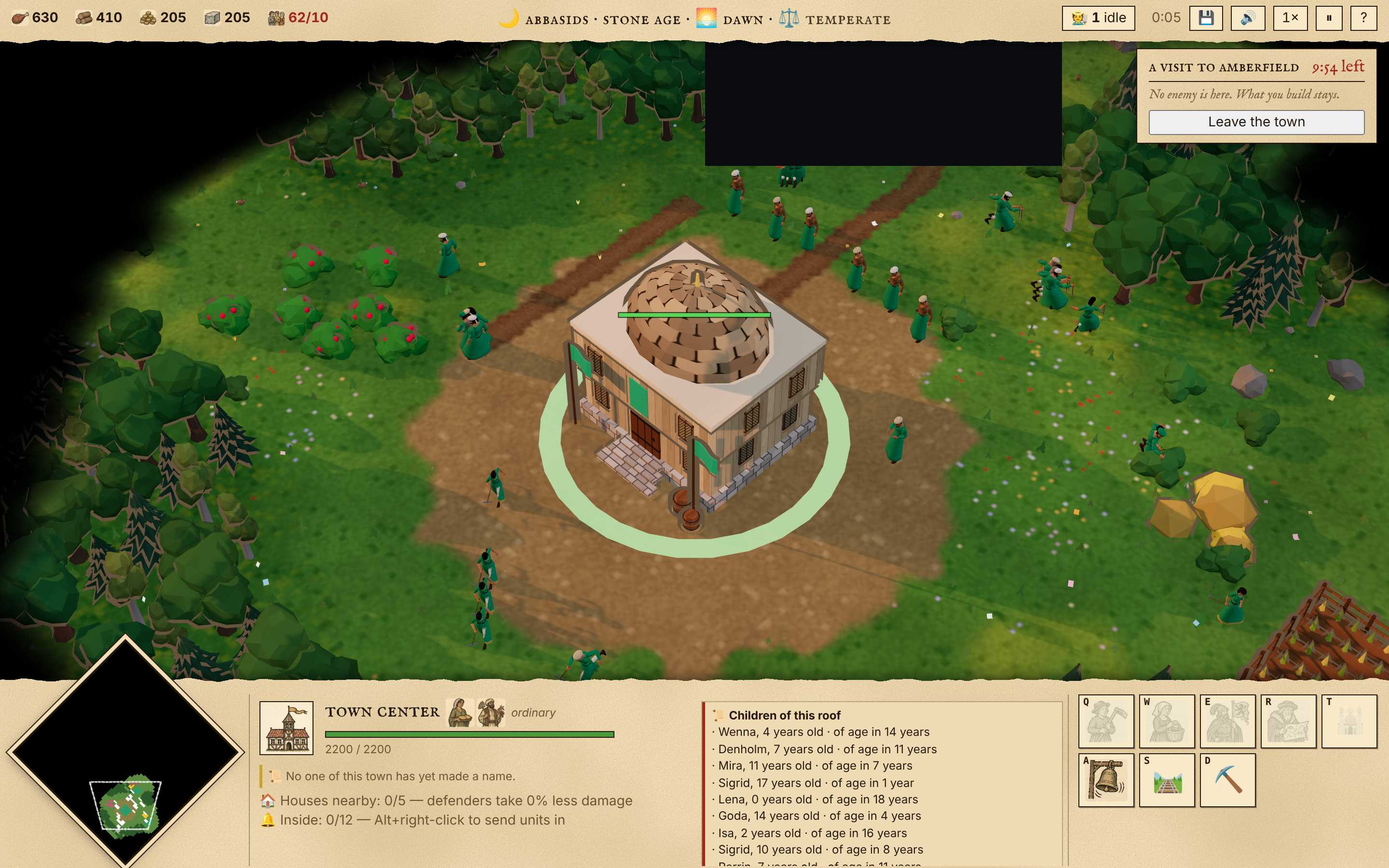
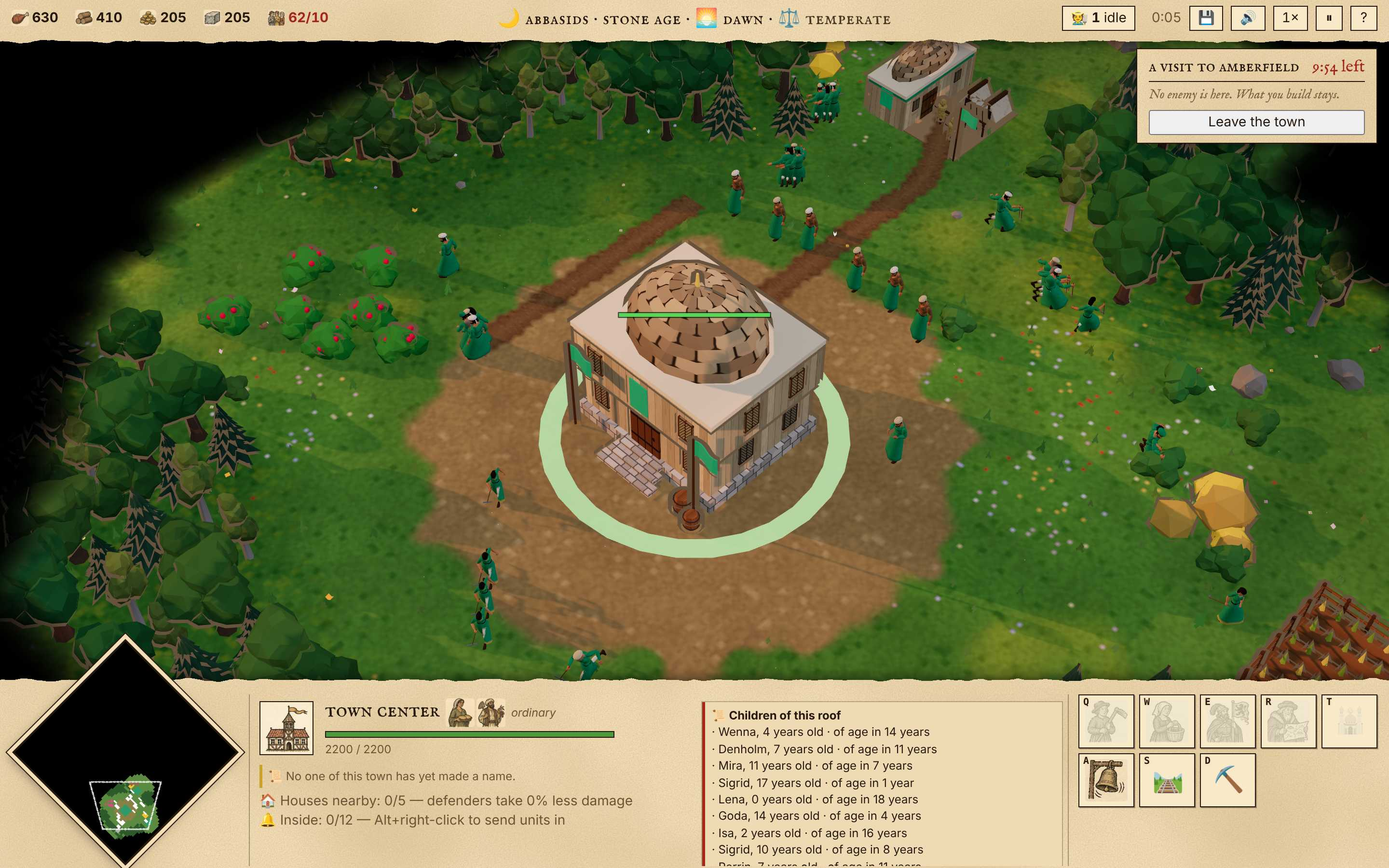
The dark box over the field with a Town Center selected: the record's plain background
Selecting a Town Center (on a wide screen) drew an empty dark box, about 370 by 130,
at the top of the field: seen on the real screen under Xvfb, headed and headless.
It was the record at the right of the panel (a roof's children): an absolutely
placed scroller with a plain opaque background, which Chromium lifts into a
layer of its own and here drew at the top of the screen. Hiding the record, or
making it static, unscrollable or without a background, each took the box away;
the same colour painted as a gradient does too, and keeps the record's look
(style.css, a block of its own). Before and after in docs/shots/hall-box-*.jpg;
the road shots of the last job retaken without it.

Claude-Session: https://claude.ai/code/session_01BwJQLtSZWcMpiNsm6BQBuR

Changed region(s): [[0.5, 0.0311, 0.7812, 0.2178]]

diff --git a/src/client/style.css b/src/client/style.css
@@ -877,3 +877,9 @@ body.looking-out #visit { display: none; }
 /* The playtest's fifth pass (docs/PLAYTEST.md 5.6): where a record (a roof's children, a person's story) stands at the
    right of the panel, everything else keeps to the left of it, so no line runs on under it and is cut off. */
 @media (min-width: 1100px) { #info:has(> .record) > :not(.record) { margin-right: calc(44% + 12px); } }
+
+/* A record standing at the right of the panel (a roof's children, a person's story) scrolls, and on a wide screen it is
+   a card of plain colour. Chromium lifts a scroller with a plain opaque background into a layer of its own, and here drew
+   that layer at the top of the screen, an empty dark box over the field, whenever a Town Center was selected. The same
+   colour painted as a gradient is drawn with the record and looks the same. */
+@media (min-width: 1100px) { .record { background: linear-gradient(#efdbb3, #efdbb3); } }
